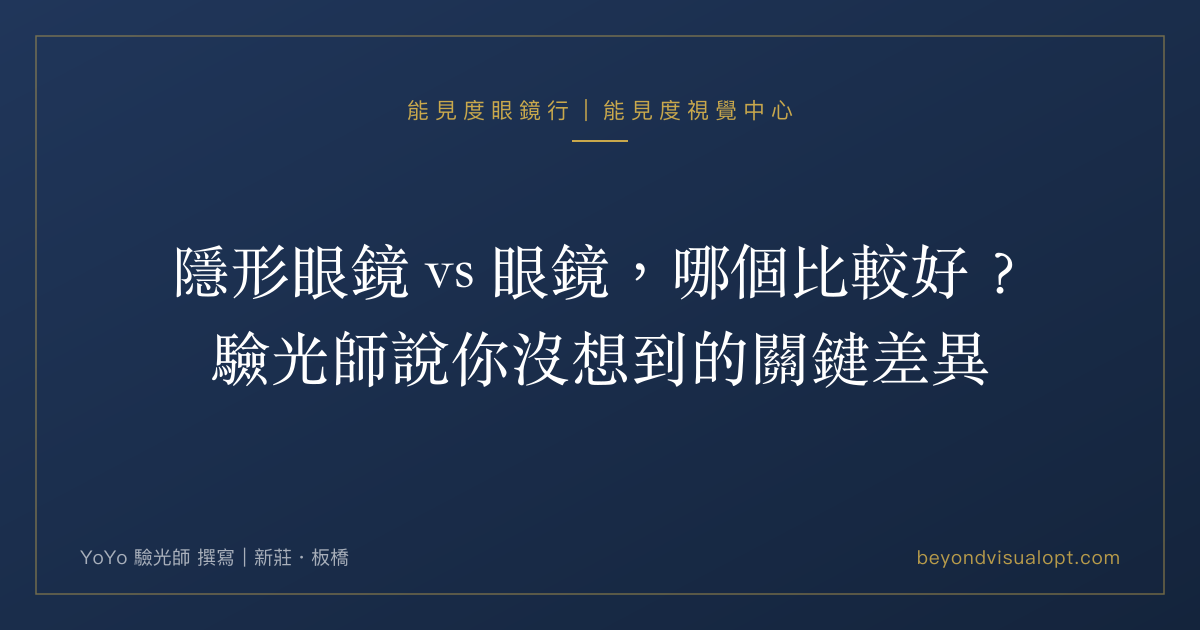
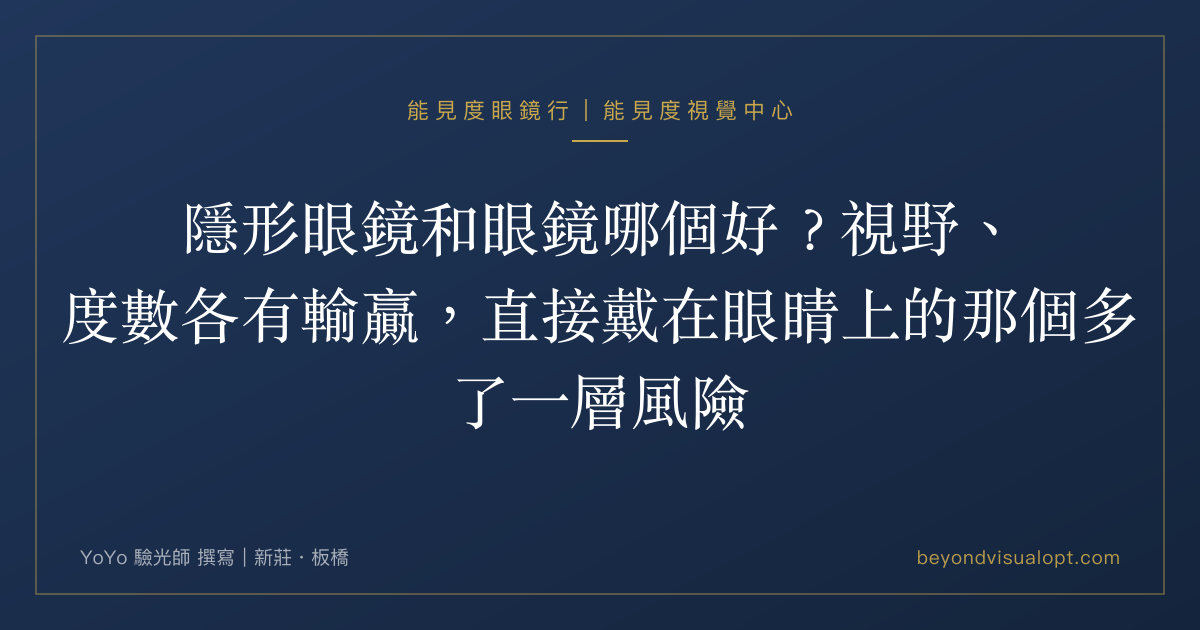
隱形眼鏡分類第 1 步：急修矽水膠改善乾眼、離焦軟式不實驗配宣稱、不規則角膜族群，5 篇標題與 FAQ 格式（官網部→口語部→國文編審→法務，老闆過目）

Changed region(s): [[0.0308, 0.3016, 0.9558, 0.6937]]

diff --git a/src/content/blog/rgp-vs-soft-contacts.md b/src/content/blog/rgp-vs-soft-contacts.md
@@ -1,5 +1,5 @@
 ---
-title: RGP 硬式和軟式隱形眼鏡差在哪？視覺品質、舒適度、照護、適合族群四維比較｜能見度視覺中心
+title: "RGP 硬式和軟式隱形眼鏡差在哪？硬的看得穩但要適應，軟的一戴就舒服"
 date: 2026-08-08
 tag: "驗光知識"
 excerpt: RGP 換到的是視覺穩定度，付出的是適應期；軟式換到的是一戴就順，代價是高度散光時的視覺穩定度追不上。這篇用視覺品質、舒適度、照護與適合族群四個維度比較兩者，也講清楚 RGP 不是角膜塑形、什麼情況我們會建議別勉強。新莊、板橋能見度視覺中心提供日戴型 RGP 驗配。
@@ -24,10 +24,10 @@ instagram: ""
 | 比較維度 | RGP 硬式（日戴型） | 軟式 |
 |---|---|---|
 | **材質與覆蓋範圍** | 較硬、直徑小，只覆蓋角膜中央；配戴時鏡片與角膜之間有一層淚液 | 較軟、直徑大，服貼角膜並延伸到周邊 |
-| **視覺品質** | 維持自己的形狀，不隨角膜起伏走；高度散光或角膜形狀較不規則時，視覺品質通常比較穩定 | 貼著角膜走；散光矯正靠鏡片定位，眨眼與鏡片旋轉會影響穩定度 |
+| **視覺品質** | 維持自己的形狀，不隨角膜起伏走；高度散光時，視覺品質通常比較穩定 | 貼著角膜走；散光矯正靠鏡片定位，眨眼與鏡片旋轉會影響穩定度 |
 | **舒適度與適應期** | 初期異物感明顯，要循序漸進拉長配戴時間，適應期較長 | 初期舒適、適應快 |
 | **照護與成本結構** | 鏡片可用的時間長，但每天要清潔保存、怕摔破與遺失，並需要定期回店複查配適 | 依日拋／雙週拋／月拋週期更換，耗材持續，弄丟一片就換下一片 |
-| **常被建議評估的人** | 高度散光（一般約 200 度以上，仍依個別評估）、角膜形狀較不規則、軟式戴了容易乾澀不適 | 散光不高、偶爾配戴、想要一戴就順 |
+| **常被建議評估的人** | 高度散光（一般約 200 度以上，仍依個別評估）、軟式散光片軸向不穩、軟式戴了容易乾澀不適 | 散光不高、偶爾配戴、想要一戴就順 |
 
 硬式鏡片的視覺穩定度，關鍵在那層淚液。鏡片維持自己的形狀站在角膜上，中間的淚液會把角膜表面比較細微的不規則填掉一部分，光線遇到的光學面因此單純一些。散光的矯正有方向性，度數大的人最容易感受到差別。軟式散光片走的是另一條路：靠鏡片本身的穩定設計，讓它戴上去之後停在該停的方向。眨眼、揉眼、鏡片變乾都可能打亂它，軸度跑掉一點畫面就浮動一點，度數越大越有感（跟散光沒配準時的變形感是同一族現象，整理在[散光眼鏡看東西會變形嗎](/blog/astigmatism-glasses-distortion/)）。
 
@@ -63,18 +63,15 @@ instagram: ""
 
 ---
 
-## 常見問題
+## RGP 和軟式隱形眼鏡常見問題
 
-**Q：RGP 是不是就是角膜塑形片（OK 鏡）？**
-
+### Q：RGP 是不是就是角膜塑形片（OK 鏡）？
 不是，這是最常被混在一起的兩件事。RGP 是硬式透氧隱形眼鏡，日戴型的用法是白天配戴、矯正當下的視力、晚上取下。角膜塑形片是夜間睡覺時配戴、透過壓迫改變角膜形狀，屬於另一類醫療處置，目的與適用族群都不同。能見度視覺中心提供的是一般日戴型 RGP 驗配，不提供角膜塑形。
 
-**Q：高度散光一定要戴 RGP 嗎？**
-
+### Q：高度散光一定要戴 RGP 嗎？
 不一定。散光度數高的人比較常被建議「評估看看」，但可能適合不等於一定適合。要看角膜與鏡片配適的評估、淚液狀況、屈光數據與生活作息，由驗光人員現場評估並經過試戴確認才算數。實務上也有人白天工作戴硬式鏡片、下班換回框架眼鏡休息，兩者搭配著用。
 
-**Q：RGP 的異物感會一直都在嗎？適應期要多久？**
-
+### Q：RGP 的異物感會一直都在嗎？適應期要多久？
 初期異物感明顯是硬式鏡片的正常現象，來自鏡片邊緣與眼瞼的摩擦，適應的做法是循序漸進拉長每天的配戴時間。每個人需要的時間不同，所以驗配時會安排定期回店複查，一邊確認鏡片在角膜上的配適、一邊視情況微調參數。願不願意配合這段複查流程，也是評估適不適合的一部分。過程中出現紅、痛、畏光或視力模糊，不要硬撐，停戴並就醫。
 
 ---

diff --git a/src/content/blog/contact-lens-fatigue.md b/src/content/blog/contact-lens-fatigue.md
@@ -1,5 +1,5 @@
 ---
-title: "每天戴隱形眼鏡，眼睛卻越來越累？問題可能不在你的眼睛｜新莊板橋驗光推薦"
+title: "戴隱形眼鏡一到下午就乾、就累，是鏡片、戴太久，還是眼睛本身？"
 seoTitle: "戴隱形眼鏡眼睛越來越累？原因可能不在眼睛｜新莊板橋驗光所"
 date: "2025-07-01"
 tag: "驗光知識"
@@ -76,12 +76,12 @@ seoDescription: "長期配戴軟式隱形眼鏡卻常感眼乾、視線模糊？
 
 ---
 
-## 隱形眼鏡配戴的改善建議
+## 戴隱形眼鏡不舒服，可以先做的五件事
 
 先從這幾個地方調整看看：
 
 **1. 確認鏡片材質**
-如果你目前的軟式隱眼是 HEMA 材質（一般水膠），考慮升級到矽水膠（Silicone Hydrogel）材質，透氧率大幅提升，乾眼感通常也會改善。
+軟式鏡片的材質不只一種，含水量、透氧度都不一樣。哪一種適合你，要看你一天戴幾小時、多半待在什麼環境、戴到下午乾不乾，這幾件事驗配時驗光人員會跟你一起看。別自己換一款回來試。
 
 **2. 縮短配戴時間**
 試著把每天配戴時間控制在 10–12 小時以內，通勤後到家換眼鏡，讓眼睛在家中有時間「呼吸」。
@@ -97,22 +97,18 @@ seoDescription: "長期配戴軟式隱形眼鏡卻常感眼乾、視線模糊？
 
 ---
 
-## 常見問題 FAQ
+## 戴隱形眼鏡乾、累常見問題
 
-**Q：隱形眼鏡配戴多久會讓眼睛乾？**
-
+### Q：隱形眼鏡配戴多久會讓眼睛乾？
 沒有固定時間，因個人淚液分泌量、鏡片材質、配戴環境而異。一般而言，冷氣環境、螢幕工作、配戴時間超過 10 小時，都是加速乾眼的條件。如果你每天配戴到下午就開始感覺不舒服，建議預約評估配戴狀況與鏡片選擇是否合適。
 
-**Q：怎麼判斷自己的隱形眼鏡材質適不適合？**
-
+### Q：怎麼判斷自己的隱形眼鏡材質適不適合？
 鏡片衛生、新鮮度與透氧程度都是影響配戴舒適度的因素，不同拋棄週期的鏡片各有清潔與保養需求。實際上適合哪一種，需視個人淚液狀況、用眼習慣與生活型態綜合評估，建議由驗光人員檢查後再決定，而非單看拋棄週期判斷。
 
-**Q：我可以偶爾過夜不取隱眼嗎？**
-
+### Q：我可以偶爾過夜不取隱眼嗎？
 強烈不建議。隔夜配戴軟式隱眼，角膜缺氧風險大幅提高，同時角膜表面的細菌繁殖速度也在睡眠期間加速。短期可能無感，長期可能導致感染性角膜炎，嚴重時影響視力。
 
-**Q：新莊、板橋哪裡可以評估隱形眼鏡配戴問題？**
-
+### Q：新莊、板橋哪裡可以評估隱形眼鏡配戴問題？
 在能見度視覺中心（新莊比泱驗光所 × 板橋門市），驗光人員會做隱形眼鏡的度數與配戴評估，包含目前鏡片材質與配戴時間的確認，以及鏡片選擇建議；淚液與眼睛表面的檢查屬眼科，門市不做。
 
 ---

diff --git a/src/content/blog/daily-vs-monthly-contacts.md b/src/content/blog/daily-vs-monthly-contacts.md
@@ -1,5 +1,5 @@
 ---
-title: 日拋、雙週拋、月拋怎麼選？衛生、成本、生活型態三面比較｜能見度視覺中心
+title: "日拋、雙週拋、月拋怎麼選：先數一週戴幾天，週期從開封那天就開始算"
 date: 2026-08-08
 tag: "驗光知識"
 excerpt: 決定你該用哪一種拋棄週期的，是「你一週真的戴幾天」，不是哪一種聽起來比較划算。這篇把日拋、雙週拋、月拋的週期算法、每天的照護負擔與成本結構攤成一張表，也講明白什麼情況我們會建議以框架眼鏡為主。新莊、板橋能見度視覺中心，由驗光人員依你的用眼作息與眼睛狀況評估。
@@ -68,18 +68,15 @@ instagram: ""
 
 ---
 
-## 常見問題
+## 日拋月拋常見問題
 
-**Q：月拋開封後只戴過幾次，可以延長使用嗎？**
-
+### Q：月拋開封後只戴過幾次，可以延長使用嗎？
 不建議。拋棄週期算的是開封之後的天數，不是配戴次數。包裝標示 30 天，第 31 天就該換掉，就算只戴過十次也一樣。因為鏡片離開未開封包裝後，淚液中的蛋白質與脂質、還有保存過程中的環境接觸都會持續累積，不會因為你沒戴而暫停。一週只戴一兩天，改用日拋比延長月拋合理。
 
-**Q：日拋可以泡在保養液裡隔天再戴嗎？**
-
+### Q：日拋可以泡在保養液裡隔天再戴嗎？
 不行，這一條沒有例外。日拋的材質與厚度是為單次配戴設計的，戴一次就丟。乾掉之後泡開再戴、用保養液洗過再戴、當成短期月拋反覆使用，都不在它的設計範圍內。真的需要每天戴，選週期型鏡片並照規定清潔，比把日拋撐成兩天安全。
 
-**Q：一週只戴兩三天，該選日拋還是月拋？**
-
+### Q：一週只戴兩三天，該選日拋還是月拋？
 以日拋為優先。雙週拋與月拋的週期從開封起算，沒戴的日子照樣在倒數，一週戴兩三天的人有大半天數是鏡片在盒子裡等著過期，還要多付保養液和鏡盒。日拋是用多少開多少，臨時要戴也方便。度數與鏡片參數仍要由驗光人員量測、試戴後確認，不能沿用框架眼鏡的數字。
 
 ---

diff --git a/src/content/blog/contact-lens-vs-glasses.md b/src/content/blog/contact-lens-vs-glasses.md
@@ -1,5 +1,5 @@
 ---
-title: 隱形眼鏡 vs 眼鏡，哪個比較好？驗光師說你沒想到的關鍵差異
+title: "隱形眼鏡和眼鏡哪個好？視野、度數各有輸贏，直接戴在眼睛上的那個多了一層風險"
 seoTitle: "隱形眼鏡和眼鏡哪個好？關鍵差異一次看懂｜新莊板橋驗光所"
 date: 2026-06-25
 tag: "驗光知識"
@@ -79,16 +79,16 @@ instagram: ""
 
 ---
 
-## 常見問題
+## 隱形眼鏡和眼鏡常見問題
 
-**Q：戴隱形眼鏡度數和眼鏡度數為什麼不一樣？**
-A：高度數（近視 400 度以上）時需要換算頂點距離，隱形眼鏡度數通常比框架眼鏡淺。低度數時差異不明顯，可以直接使用相同度數。
+### Q：戴隱形眼鏡度數和眼鏡度數為什麼不一樣？
+高度數（近視 400 度以上）時需要換算頂點距離，隱形眼鏡度數通常比框架眼鏡淺。低度數時差異不明顯，可以直接使用相同度數。
 
-**Q：配了眼鏡還要再驗一次隱形眼鏡嗎？**
-A：嚴格來說要。散光度數、軸向的確認，以及試戴後的視力確認，都需要額外評估。直接用眼鏡處方買隱形眼鏡在度數上可能有誤差。
+### Q：配了眼鏡還要再驗一次隱形眼鏡嗎？
+嚴格來說要。隱形眼鏡的度數要另外驗，有散光的人，散光度數與軸向也要重新確認。一般軟式鏡片多半會先試戴再確認視力；散光軟式和多焦點隱形眼鏡門市沒有試戴片，由驗光人員評估後再決定。拿眼鏡的度數直接去買隱形眼鏡，可能會有誤差。
 
-**Q：隱形眼鏡戴了眼睛乾怎麼辦？**
-A：確認是否在使用電腦或空調環境（這兩個都會降低淚液分泌）、配戴時間是否過長、以及是否已有乾眼症傾向。建議預約評估，確認是否需要調整鏡片材質或配戴方式。
+### Q：隱形眼鏡戴了眼睛乾怎麼辦？
+確認是否在使用電腦或空調環境（這兩個都會降低淚液分泌）、配戴時間是否過長、以及是否已有乾眼症傾向。建議預約評估，確認是否需要調整鏡片材質或配戴方式。
 
 ---
 

diff --git a/src/content/blog-en/astigmatism-glasses-distortion.md b/src/content/blog-en/astigmatism-glasses-distortion.md
@@ -83,7 +83,7 @@ Most people feel the distortion easing within a few days, and by about a week it
 
 **Q: Are contact lenses or glasses better for astigmatism?**
 
-High astigmatism doesn't rule out contact lenses. Soft toric lenses rely on staying oriented on the eye to keep the axis aligned; rigid gas permeable (RGP) lenses keep their own shape, so with high astigmatism or an irregular corneal surface, the correction stays on axis more reliably, at the cost of an adaptation period. Which suits you depends on your cornea, tear film and prescription, confirmed by a trial fitting; both our stores fit RGP lenses. Under Article 12 of Taiwan's Optometrists Act, contact lens fitting for anyone aged 15 or under must be done under an ophthalmologist's guidance, and children under 6 are not fitted.
+High astigmatism doesn't rule out contact lenses. Soft toric lenses rely on staying oriented on the eye to keep the axis aligned; rigid gas permeable (RGP) lenses keep their own shape, so with high astigmatism the correction stays on axis more reliably, at the cost of an adaptation period. Which suits you depends on your prescription and how the lens sits, assessed by our optometry staff; RGP can be trial-fitted in store, and both our stores fit it; we have no trial lenses for soft toric. Under Article 12 of Taiwan's Optometrists Act, contact lens fitting for anyone aged 15 or under must be done under an ophthalmologist's guidance, and children under 6 are not fitted; we currently do not fit contact lenses for children aged 15 or under, so please see an ophthalmologist first.
 
 **Q: Does astigmatism keep getting worse?**
 

diff --git a/src/content/blog/astigmatism-glasses-distortion.md b/src/content/blog/astigmatism-glasses-distortion.md
@@ -102,7 +102,7 @@ instagram: ""
 
 ### Q：高度散光可以戴隱形眼鏡嗎？
 
-能戴，方向有兩種。軟式有散光專用的鏡片，靠鏡片在眼睛上的定位來對準軸向；硬式（RGP）鏡片本身是硬的，不跟著角膜變形，散光很高、或角膜表面不太規則的人，矯正的軸向比較不會跟著跑掉，代價是一段適應期。先檢查角膜和淚液，戴過試戴片，才知道哪一種合你的眼睛；RGP 在新莊、板橋都驗配。想先自己比一比，讀[RGP 硬式和軟式隱形眼鏡差在哪？](/blog/rgp-vs-soft-contacts/)。孩子十五歲以下（含十五歲）要配隱形眼鏡，須在眼科醫師指導下驗配；未滿六歲，依法不得驗配。
+能戴，方向有兩種。軟式有散光專用的鏡片，靠鏡片在眼睛上的定位來對準軸向；硬式（RGP）鏡片本身是硬的，不跟著角膜變形，散光很高的人，矯正的軸向比較不會跟著跑掉，代價是一段適應期。哪一種合你的眼睛，由驗光人員看過度數與配戴狀況再評估；RGP 有試戴片可以現場試，新莊、板橋兩店都驗配；散光軟式門市沒有試戴片。想先自己比一比，讀[RGP 硬式和軟式隱形眼鏡差在哪？](/blog/rgp-vs-soft-contacts/)。依驗光人員法，十五歲以下（含十五歲）的隱形眼鏡須在眼科醫師指導下驗配，未滿六歲不得驗配；能見度目前不驗配十五歲以下孩子的隱形眼鏡，請家長先帶去給眼科醫師評估。
 
 ### Q：眼鏡戴歪了，散光會跑掉嗎？
 

diff --git a/src/content/blog-en/contact-lens-fatigue.md b/src/content/blog-en/contact-lens-fatigue.md
@@ -74,12 +74,12 @@ Contact lenses come in more than one material — soft dailies, soft monthlies, 
 
 ---
 
-## Suggestions for Improving Your Contact Lens Wear
+## Five Things to Do First When Your Contacts Feel Uncomfortable
 
 Start by adjusting these areas:
 
 **1. Confirm your lens material**
-If your current soft lenses are HEMA material (conventional hydrogel), consider upgrading to silicone hydrogel. Oxygen transmissibility improves substantially, and the dry feeling usually eases too.
+Soft lenses aren't all made of the same material, and water content and oxygen permeability differ from one to the next. Which one suits you depends on how many hours a day you wear them, where you spend those hours and whether your eyes feel dry by the afternoon; our optometry staff work through that with you at the fitting. Please don't switch to a different lens on your own just to see what happens.
 
 **2. Shorten your wearing time**
 Try to keep daily wear under 10–12 hours. Switch to glasses once you get home after your commute, giving your eyes time to "breathe" at home.

diff --git a/src/content/blog-en/contact-lens-vs-glasses.md b/src/content/blog-en/contact-lens-vs-glasses.md
@@ -85,7 +85,7 @@ At high powers (myopia of -4.00 D or more), the vertex distance has to be conver
 
 **Q: If I already have a glasses prescription, do I still need a separate contact lens fitting?**
 
-Strictly speaking, yes. Confirming the astigmatism power and axis, plus checking your vision after a trial fitting, all require additional assessment. Buying contacts straight from your glasses prescription can leave you with a prescription that's slightly off.
+Strictly speaking, yes. Contact lens power has to be measured separately, and if you have astigmatism the cylinder power and axis need confirming again. Most regular soft lenses are trial-fitted first to check your vision; we don't keep trial lenses for soft toric or multifocal contacts, so our optometry staff assess those before deciding. Buying contacts straight from your glasses prescription can leave you with a prescription that's slightly off.
 
 **Q: My eyes feel dry when I wear contacts — what can I do?**
 

diff --git a/src/content/blog-en/presbyopia-vs-progressive.md b/src/content/blog-en/presbyopia-vs-progressive.md
@@ -102,7 +102,7 @@ Designed specifically for "working indoors at a fixed distance for long periods,
 
 ## Solution 4: Multifocal Contact Lenses
 
-Soft multifocal contact lenses (such as presbyopia contacts from Alcon or J&J) use a concentric-ring or progressive design, allowing the cornea to receive light from both near and far at once, with the brain choosing which focal distance to prioritize.
+Soft multifocal contact lenses use a concentric-ring or progressive design, allowing the cornea to receive light from both near and far at once, with the brain choosing which focal distance to prioritize. Both our stores can fit multifocal contact lenses, but we don't keep trial lenses for this type, so our optometry staff need to assess whether they suit you first.
 
 **Pros:**
 - Completely invisible that you're wearing presbyopia correction

diff --git a/src/content/blog/presbyopia-vs-progressive.md b/src/content/blog/presbyopia-vs-progressive.md
@@ -104,7 +104,7 @@ instagram: ""
 
 ### 方案四：多焦點隱形眼鏡
 
-軟式多焦點隱形眼鏡（如 Alcon、J&J 的老花隱眼）使用同心圓或漸進設計，讓角膜同時接收遠近光源，由大腦選擇優先使用哪個焦距。
+軟式多焦點隱形眼鏡使用同心圓或漸進設計，讓角膜同時接收遠近光源，由大腦選擇優先使用哪個焦距。能見度兩店都能驗配多焦點隱形眼鏡，不過門市沒有這類鏡片的試戴片，適不適合，要先讓驗光人員評估過。
 
 **優點：**
 - 外觀完全看不出配戴老花輔助
